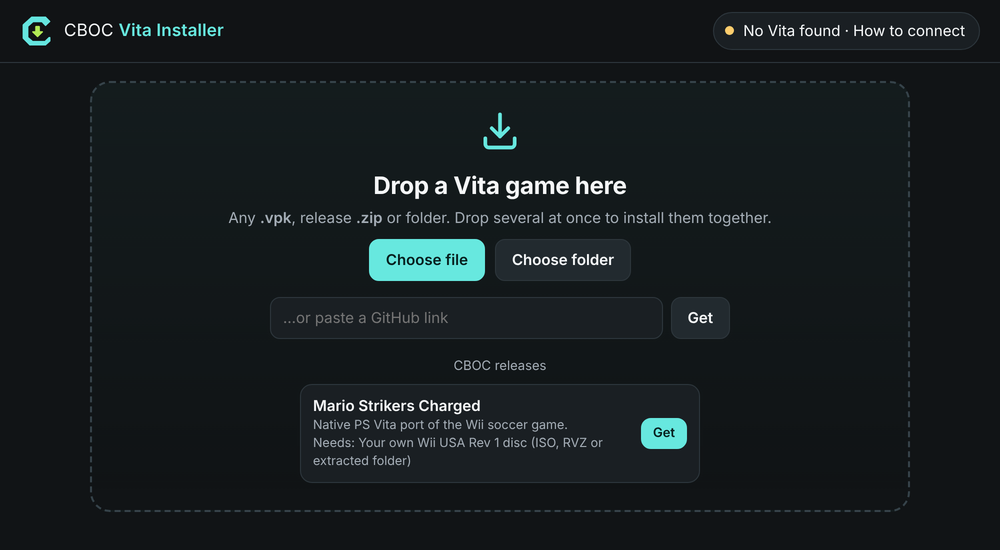
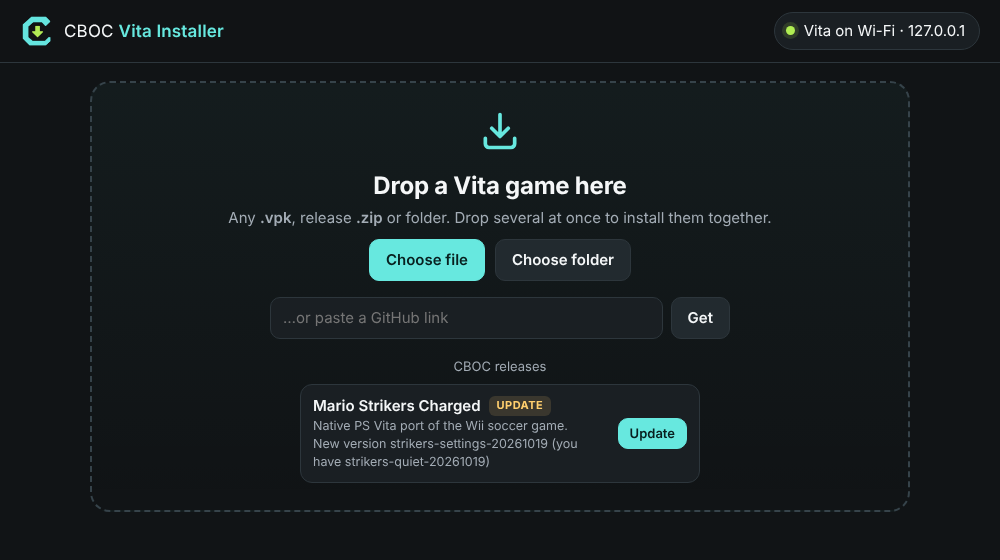
1.0.4: simpler README with supported systems; new start-screen picture

diff --git a/README.md b/README.md
@@ -3,101 +3,58 @@
 <h1 align="center">CBOC Vita Installer</h1>
 
 <p align="center"><b>Put games on your PS Vita from your computer.</b><br>
-No FTP client, no VitaShell menus, no copying folders around.</p>
+It finds your Vita, copies everything to the right place and installs it.</p>
 
-<p align="center">
-<a href="https://github.com/CBOC-Vita-Lab/vita-installer/releases/latest"><b>Download</b></a> ·
-<a href="#how-to-use-it">How to use it</a> ·
-<a href="#questions">Questions</a> ·
-<a href="docs/release-format.md">For port authors</a>
-</p>
+<p align="center"><a href="https://github.com/CBOC-Vita-Lab/vita-installer/releases/latest"><b>Download</b></a></p>
 
 ---
 
 <p align="center"><img src="docs/img/start.png" width="720" alt="The installer's start screen"></p>
 
-Drop in a game (a `.vpk`, a release `.zip`, a folder, or a GitHub link), and the installer finds your Vita, sends everything over and installs it. If the game needs something you have to supply yourself, like your own disc, it asks for that one file, checks it's the right one and does the rest.
-
-- **Works with any Vita app or game.** Any VPK works. Release ZIPs that ship `data/` or `ux0/` folders get those copied too. CBOC releases also get their extra steps done automatically.
-- **Finds your Vita for you.** It looks for it on your Wi-Fi, and spots a Vita memory card or VitaShell USB connection plugged into the computer.
-- **Fast.** It sends several files at once and skips anything your Vita already has, so updates and retries only send what changed. Wi-Fi installs need no button presses on the Vita.
-- **Converts your game files for the port.** When a port needs your disc's data in a different form (Super Mario Galaxy, for example), it converts it on your computer, checks every file and shrinks the movies, then copies the result. No scripts to run.
-- **Safe for your saves.** It never deletes your files on the Vita, and it never touches the save and settings folders a release marks as protected.
-- **Small and runs on old computers.** About 6 MB, nothing else to install. Works on macOS 10.13 and later, Windows 7 and later, and Linux.
+- **Any Vita game or app:** a `.vpk`, a release `.zip`, a folder or a GitHub link.
+- **Your own game files:** Wii and GameCube discs (ISO, RVZ, WBFS or an extracted folder) and PSP ISOs. It checks you have the right game and puts it where the port expects it, converting it first when the port needs that (Super Mario Galaxy, for example).
+- **Updates:** connect your Vita and it shows **Update** when a game has a new version. Only changed files are sent, and your saves are never touched.
+- **No setup:** one small download, nothing else to install.
 
 ## Download
 
 | Computer | File |
 | --- | --- |
-| Mac (Intel or Apple Silicon, macOS 10.13+) | `CBOC-Vita-Installer-…-mac.zip` |
-| Windows 10 / 11 (most PCs) | `CBOC-Vita-Installer-…-windows-x64.exe` |
-| Windows 7 / 8 or 32-bit Windows | `CBOC-Vita-Installer-…-windows-x86.exe` |
-| Windows on ARM | `CBOC-Vita-Installer-…-windows-arm64.exe` |
-| Linux | `CBOC-Vita-Installer-…-linux-amd64.tar.gz` (or `arm64`) |
+| Mac, Intel or Apple Silicon (macOS 10.13 High Sierra and later) | `…-mac.zip` |
+| Windows 10 / 11 | `…-windows-x64.exe` |
+| Windows 7 / 8, or 32-bit Windows | `…-windows-x86.exe` |
+| Windows on ARM | `…-windows-arm64.exe` |
+| Linux (PC or ARM) | `…-linux-amd64.tar.gz` / `…-linux-arm64.tar.gz` |
 
-All files are on the [latest release](https://github.com/CBOC-Vita-Lab/vita-installer/releases/latest).
+Get them from the [latest release](https://github.com/CBOC-Vita-Lab/vita-installer/releases/latest).
 
-**First launch on a Mac:** unzip, then right-click the app and choose **Open**. On newer macOS, if it is still blocked, go to **System Settings > Privacy & Security** and click **Open Anyway**. It also asks to find devices on your local network; allow this so it can find your Vita. [More help](docs/mac-open.md)
-
-**First launch on Windows:** if SmartScreen says "Windows protected your PC", click **More info > Run anyway**. The app is not code-signed, which is why Windows asks.
+- **Mac:** unzip, right-click the app and choose **Open**. Allow it to find devices on your network. ([Help](docs/mac-open.md))
+- **Windows:** if "Windows protected your PC" appears, click **More info > Run anyway**.
 
 ## How to use it
 
-1. **Open the installer.** It opens in your web browser. The page only runs on your own computer.
-2. **Turn on your Vita's connection.** In VitaShell, press **SELECT** to start FTP. The installer finds the Vita by itself. If you have [Vita Companion](https://github.com/devnoname120/vitacompanion) you can skip this, and the installer can start the game for you when it's done.
-3. **Add a game.** Drag it onto the window, click **Choose file**, or paste a GitHub link. CBOC games are listed on the start screen, and one click downloads them.
-4. **Add anything it asks for.** For example your own game disc (ISO, RVZ, WBFS, or a folder extracted with Dolphin) or the shader compiler. Files sitting next to the download are found automatically.
-5. **Click Install.** That's it. Add several games and they install one after another.
-
-<p align="center"><img src="docs/img/progress.png" width="460" alt="Sending a game to the Vita"></p>
-
-### Big games: use USB
-
-Wi-Fi on the Vita is slow, around 2–4 MB/s. For games of a gigabyte or more, USB is several times faster. In VitaShell press **START**, set **SELECT button** to **USB**, plug in the cable and press **SELECT**. The installer finds the drive by itself. A memory card in a card reader works the same way. USB and card installs copy everything; you then press **X** on the game in VitaShell's `ux0:VPK` folder to install it.
+1. **Open the installer.** It opens in your web browser.
+2. **On the Vita, open VitaShell and press SELECT.** The installer finds your Vita by itself.
+3. **Add a game.** Click **Get** next to a CBOC game, drop a file on the window, or paste a GitHub link.
+4. **Add anything it asks for,** such as your own game disc.
+5. **Click Install.**
 
 ## Questions
 
-**Which games work?** Any Vita app or homebrew in `.vpk` form, plus release ZIPs that contain one. If a release needs your own game files and doesn't say how, copy them the way its readme says. Releases can describe their extra steps in a [`vita-install.json`](docs/release-format.md) file so the installer handles them.
+**What does my Vita need?** HENkaku/Ensō and VitaShell. Some games also need the shader compiler (`libshacccg.suprx`); the installer asks for it only if your Vita doesn't have it.
 
-**What does it need on the Vita?** A Vita running HENkaku/Ensō with VitaShell. Over Wi-Fi it uses VitaShell's FTP server and its built-in remote install. With Vita Companion it can also install and launch games while VitaShell is closed.
+**It can't find my Vita.** Keep VitaShell's FTP screen open (SELECT) and both on the same Wi-Fi. Or click the status button at the top right and type the address the Vita shows.
 
-**It can't find my Vita.** Make sure the Vita shows the FTP screen (VitaShell, **SELECT**) and that both are on the same Wi-Fi. Then click the status button at the top right and type the address the Vita shows (for example `192.168.1.20`). Guest networks and some mesh networks keep devices apart; USB always works.
+**Big games are slow over Wi-Fi.** Use USB: in VitaShell press **START**, set **SELECT button** to **USB**, plug in the cable and press **SELECT**. The installer finds it by itself. When it's done, press **X** on the game in VitaShell's `ux0:VPK` folder.
 
-**Is my disc or game uploaded anywhere?** No. Everything happens between your computer and your Vita. The only internet traffic is checking for installer updates, downloading a game when you paste a link, and downloading the disc unpacker ([nodtool](https://github.com/encounter/nod), checked against a fixed hash) the first time you give it an ISO or RVZ.
+**The transfer stopped.** Keep the Vita awake and press **Install** again. Finished files are not sent again.
 
-**My Mac is older than macOS 12, or my PC runs Windows 7/8, and it asks for an extracted folder.** The disc unpacker needs macOS 12 / Windows 10. On older systems, extract the disc in Dolphin first: right-click the game > **Properties** > **Filesystem**, right-click the disc > **Extract Entire Disc**, then choose that folder.
+**Is anything uploaded?** No. Everything stays between your computer and your Vita. It only goes online to download games you ask for and to check for updates.
 
-**I already extracted my game, or it's already on the Vita.** Choose (or drag in) the extracted folder; the installer finds the `sys/` and `files/` folders inside it (even in a `DATA` subfolder), checks it's the right game and copies them to the exact place the port expects. If the game files are already on your Vita, it notices, marks them "Already on your Vita" and doesn't ask for them at all, so updating only sends the app.
+## For port authors and developers
 
-**It says it's converting my game. How long does that take?** A few minutes for a big game such as Super Mario Galaxy, once. It needs some free space on your computer (about the size of the game) and never changes your own files. If you install again, it reuses the converted copy, and if the converted game is already on your Vita, it isn't sent again.
+- [Release format](docs/release-format.md): how a release tells the installer what it needs.
+- Build: `go test ./...` and `scripts/build.sh 1.0.0` (Go 1.20, no other dependencies).
+- Release: add a new `## x.y.z` section at the top of [CHANGELOG.md](CHANGELOG.md) and push to `main`.
 
-**How do updates work?** Connect your Vita and the start screen shows the games the installer put on it, with an **Update** button when there is a newer release. Updating only sends the files that changed (checked by content, not just size) and never touches your saves, settings, game data or HD texture packs.
-
-**Can it add Infected's HD textures?** Yes. Infected has two optional slots for HD texture packs you made from your own disc with the texture builder (the packs can't be shared, because they come from the game). Choose `texpack_2x.bin` and/or `texpack_4x_mixed.bin`; the installer puts them where the game looks for them, and refuses the full 4x pack, which is too big for the Vita.
-
-**The transfer stopped halfway.** Keep the Vita awake and press **Install** again. Files that finished are not sent again.
-
-## For developers
-
-```sh
-go test ./...                    # tests, including a fake Vita FTP server
-go run .                         # run from source
-go run ./internal/fakevita/cmd/fakevita -root /tmp/fake-vita -speed 3   # a pretend Vita to try it with
-scripts/build.sh 1.0.0           # every download, into dist/
-```
-
-The app is a single Go program (Go 1.20 so it still targets Windows 7 and macOS 10.13) with no dependencies outside the standard library. Its page is plain HTML, CSS and JavaScript in `ui/`.
-
-| Folder | What it does |
-| --- | --- |
-| `internal/vita` | Reads VPKs and `param.sfo` |
-| `internal/release` | Turns a VPK, ZIP or folder into installable releases; `vita-install.json` |
-| `internal/prep` | Checks and unpacks game discs (Wii/GameCube, PSP) |
-| `internal/galaxy`, `internal/catalog` | Converts game data for ports (Super Mario Galaxy, Yaz0, THP movies) and checks files against expected hashes |
-| `internal/ftp`, `internal/device` | Talks to the Vita; finds it on the network or as a drive |
-| `internal/install` | Plans, sends and installs, with resume and parallel transfers |
-| `internal/web`, `ui/` | The local page and its state |
-
-To release, put the new version at the top of `CHANGELOG.md` (`## 1.0.1`) and push to `main`: GitHub builds every download on a Mac and publishes the release with that section as its notes (`.github/workflows/release.yml`).
-
-Written entirely by AI (Claude), fully vibecoded. MIT licensed.
+Written entirely by AI (Claude). MIT licensed.

diff --git a/CHANGELOG.md b/CHANGELOG.md
@@ -1,5 +1,12 @@
 # Changelog
 
+## 1.0.4
+
+- Simpler instructions on the project page.
+- Small fix to the progress display at the end of a transfer.
+
+Works on Mac (Intel and Apple Silicon, macOS 10.13 and later), Windows 7 to 11 (64-bit, 32-bit and ARM) and Linux (PC and ARM).
+
 ## 1.0.3
 
 **Smarter updates.**
